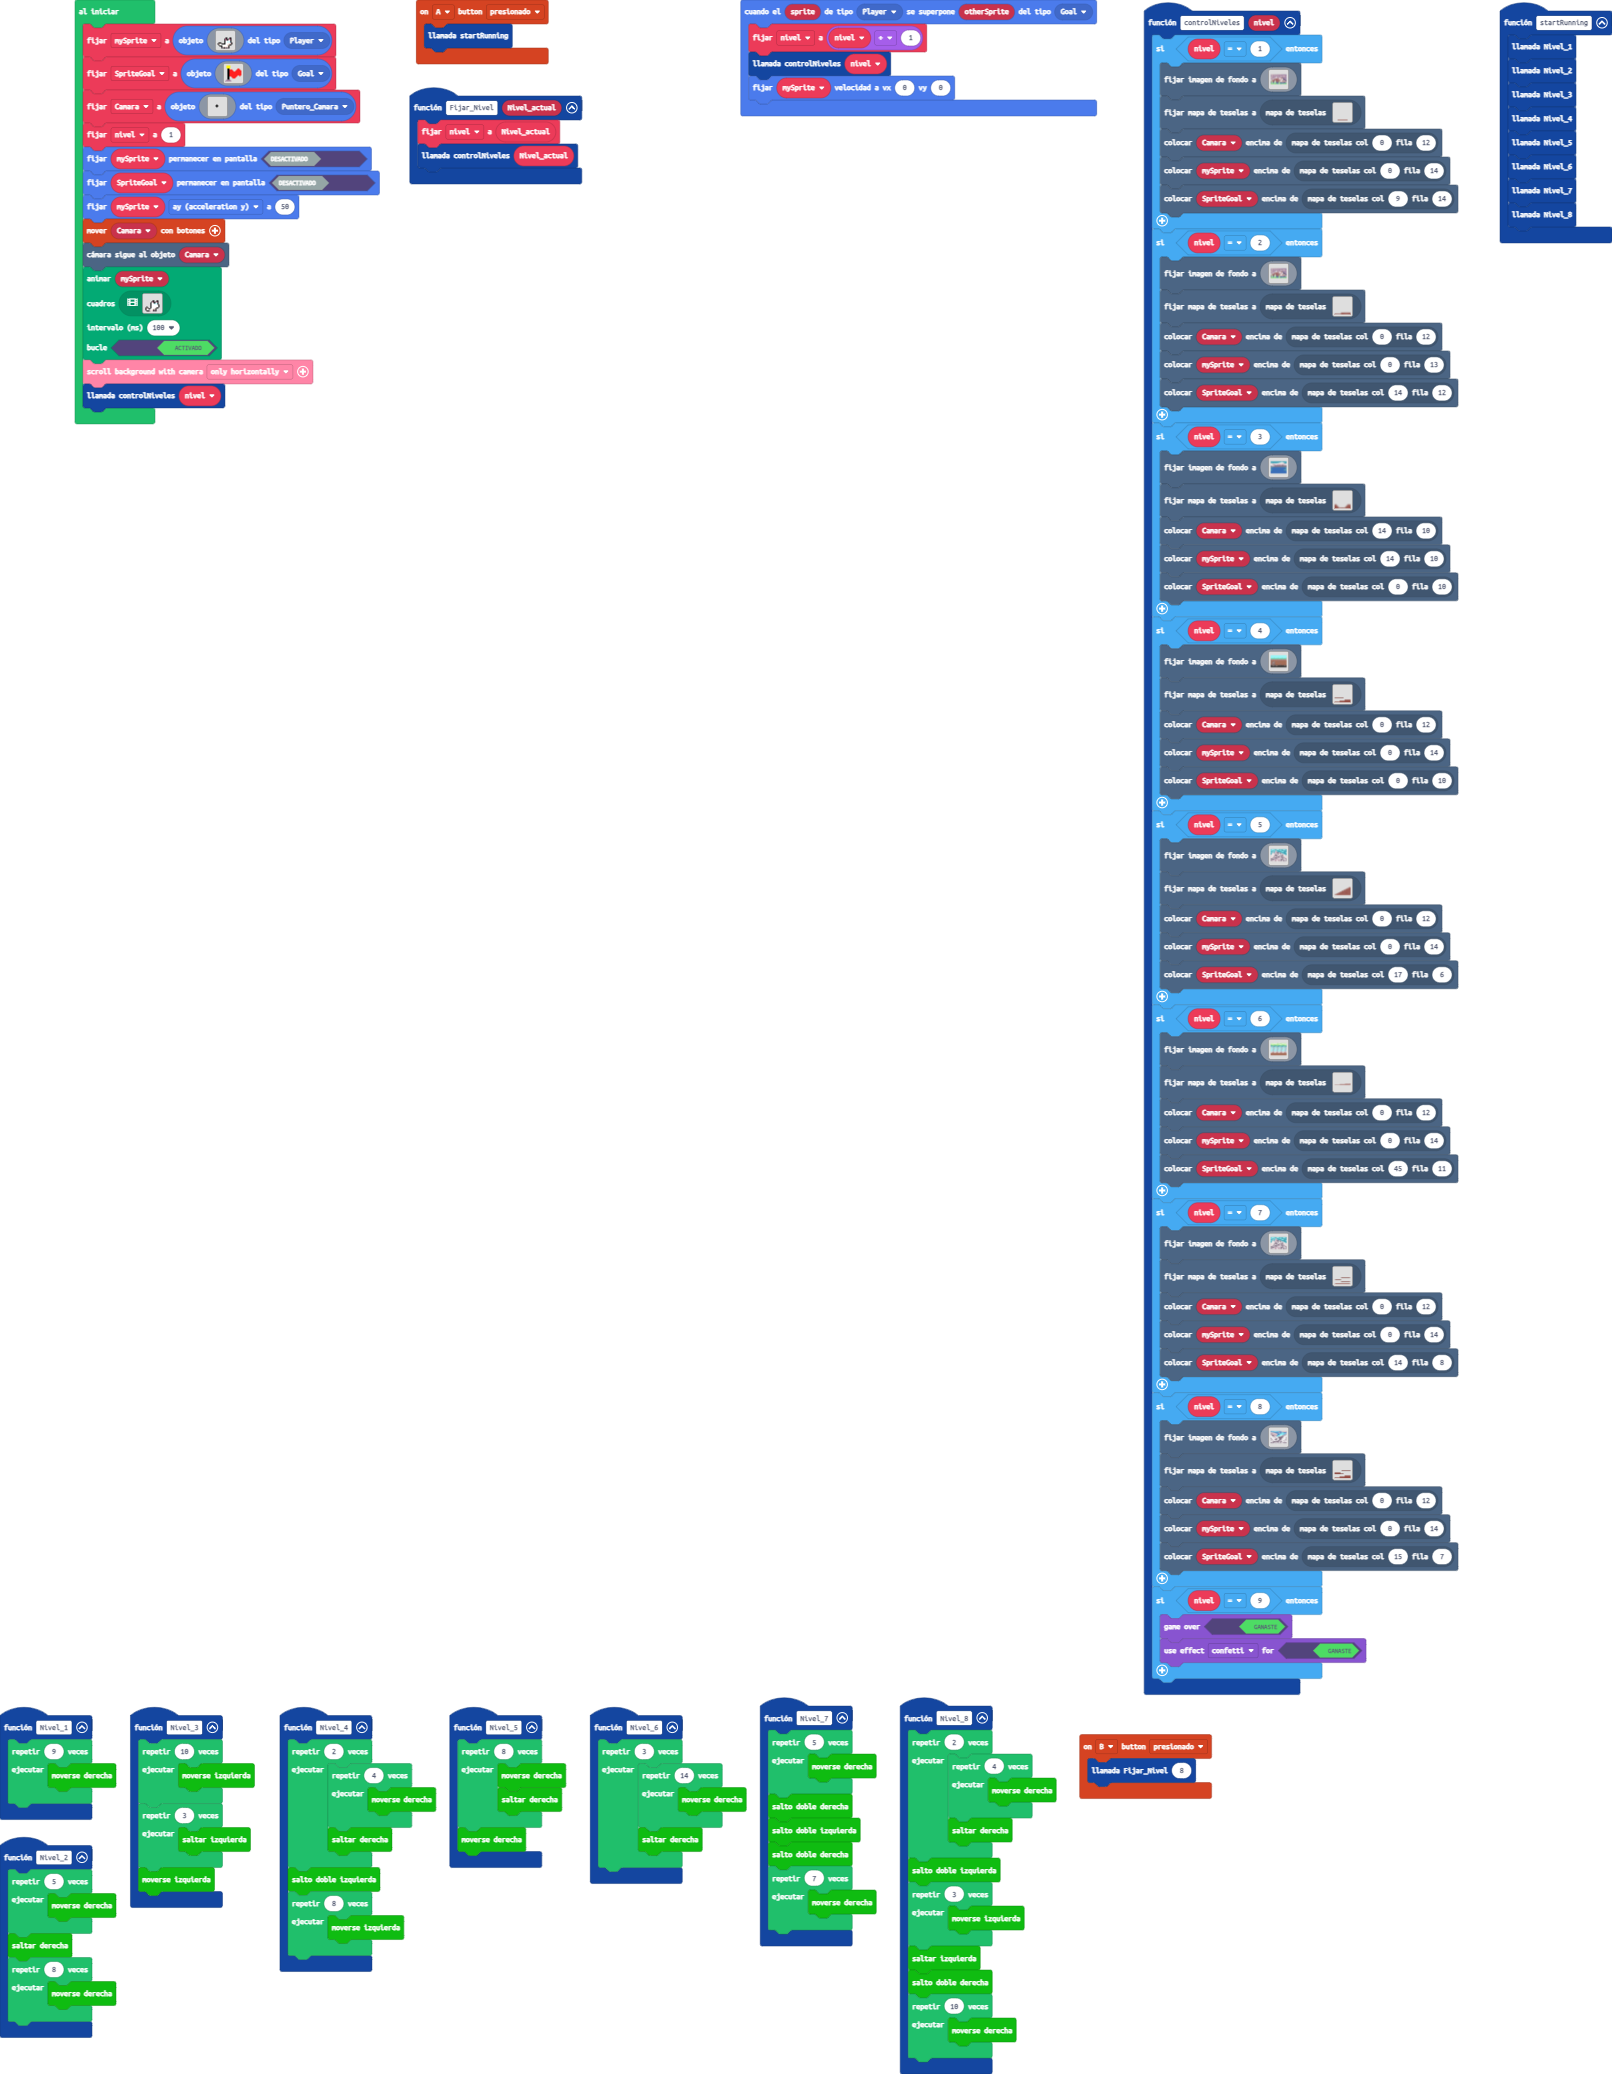
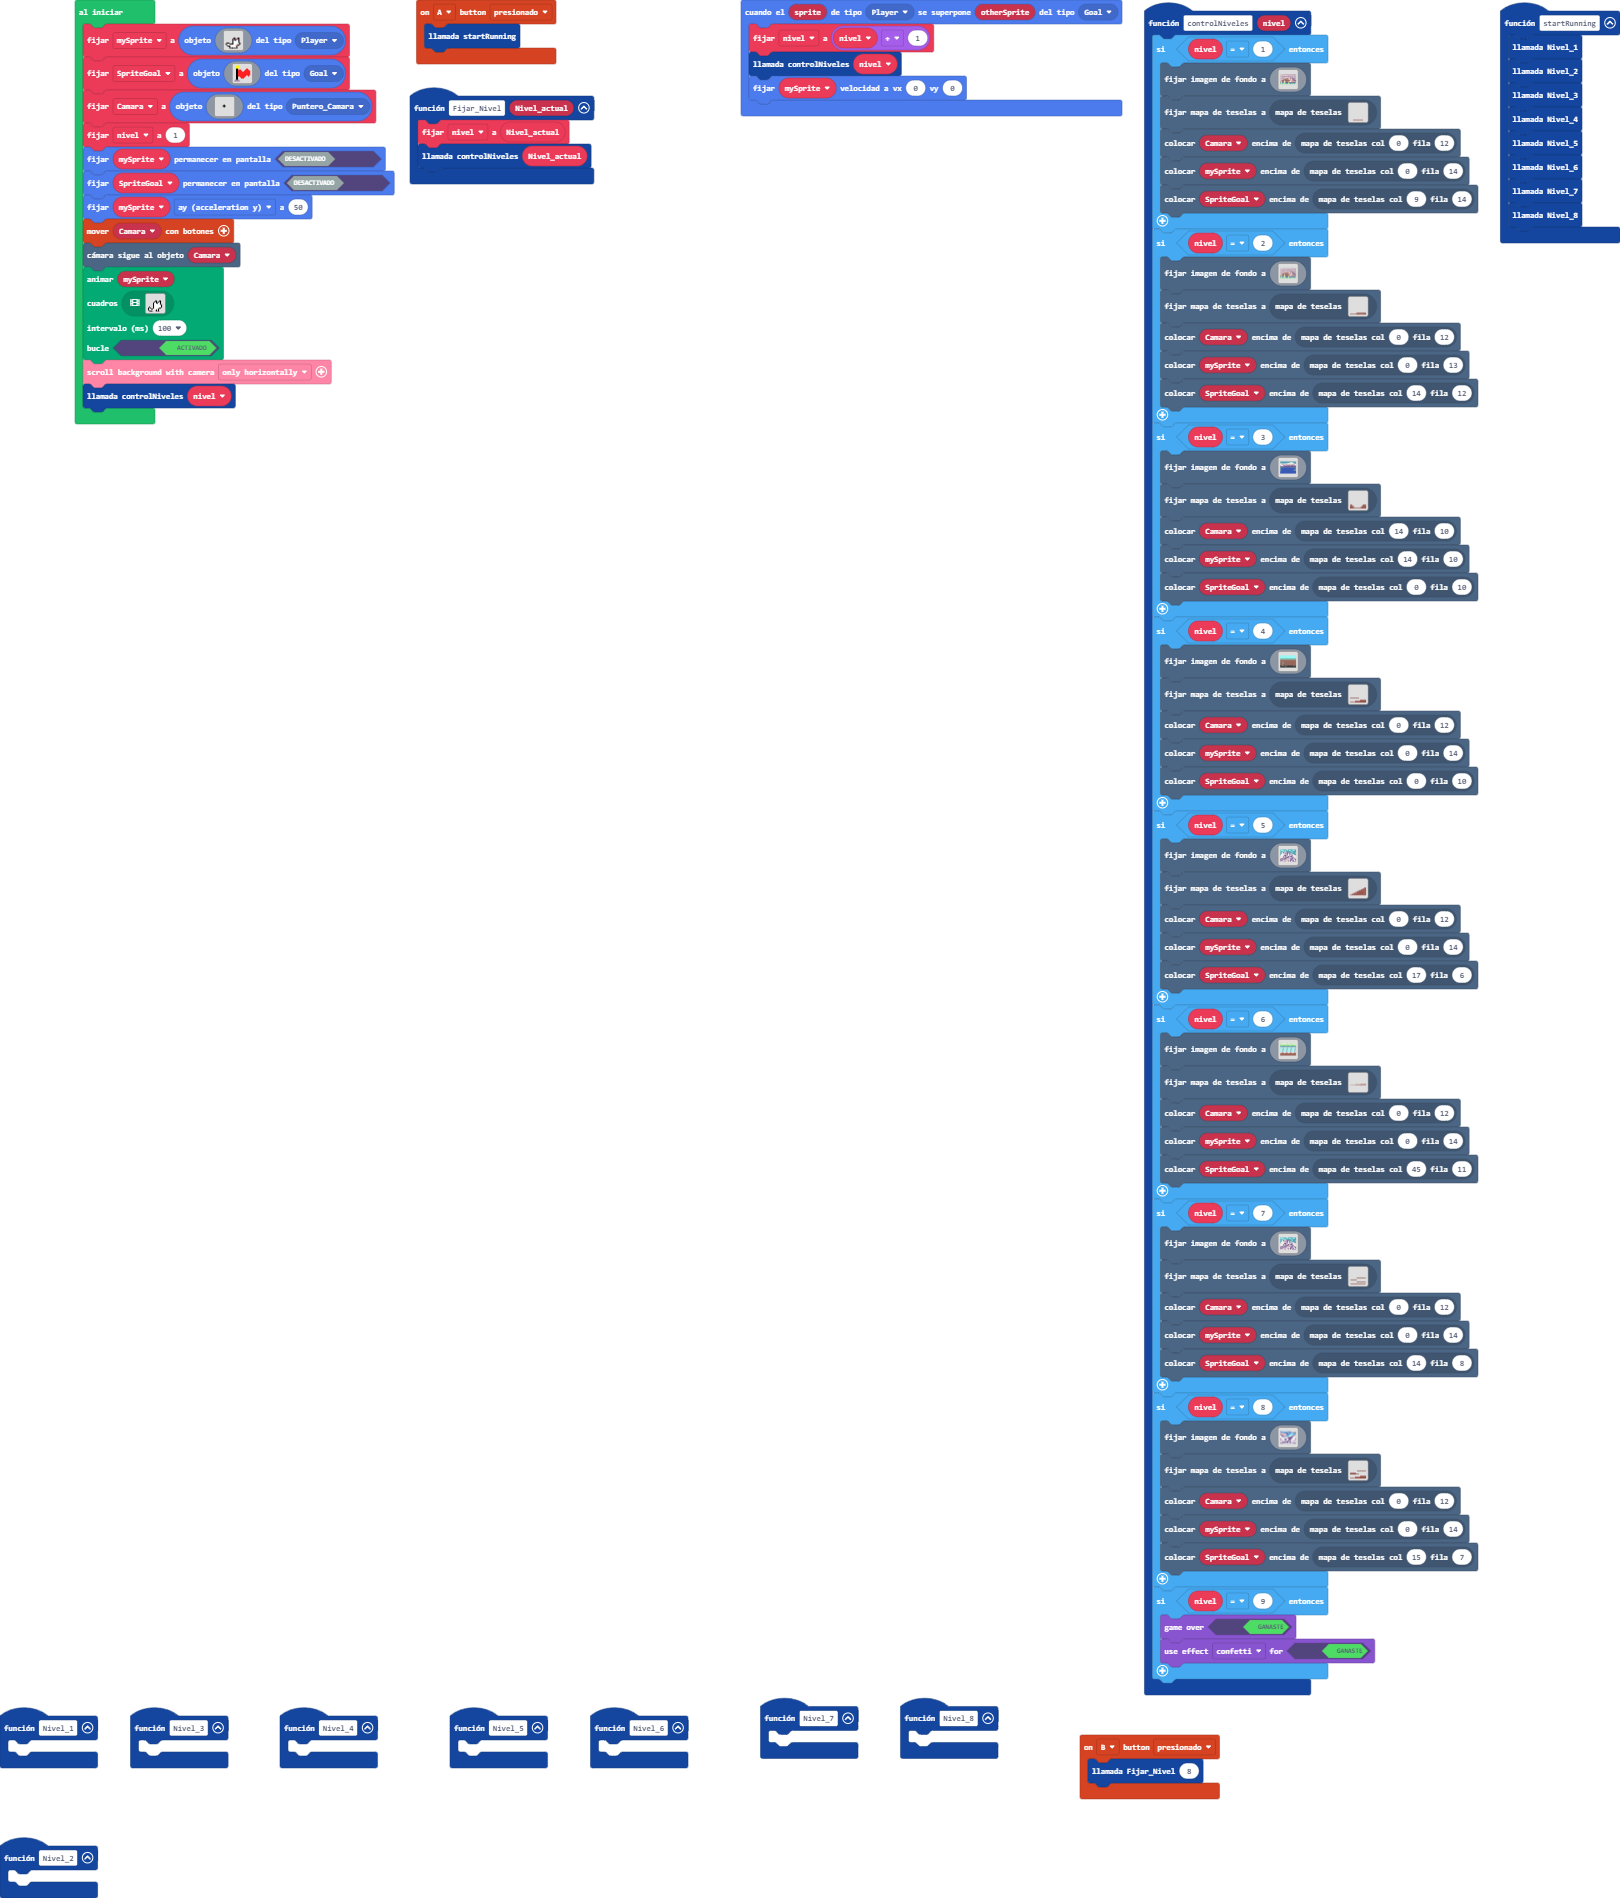
Eliminadas las soluciones a los niveles

Changed region(s): [[0.0, 0.0, 1.0, 1.0], [0.031, 0.0, 0.3722, 0.2487]]

diff --git a/main.ts b/main.ts
@@ -9,41 +9,16 @@ namespace SpriteKind {
     export const Muerte = SpriteKind.create()
 }
 function Nivel_3 () {
-    for (let index = 0; index < 10; index++) {
-        custom.moverseIzquierda()
-    }
-    for (let index = 0; index < 3; index++) {
-        custom.saltarIzquierda()
-    }
-    custom.moverseIzquierda()
+	
 }
 function Nivel_7 () {
-    for (let index = 0; index < 5; index++) {
-        custom.moverseDerecha()
-    }
-    custom.saltoDobleDerecha()
-    custom.saltoDobleIzquierda()
-    custom.saltoDobleDerecha()
-    for (let index = 0; index < 7; index++) {
-        custom.moverseDerecha()
-    }
+	
 }
 function Nivel_1 () {
-    for (let index = 0; index < 9; index++) {
-        custom.moverseDerecha()
-    }
+	
 }
 function Nivel_4 () {
-    for (let index = 0; index < 2; index++) {
-        for (let index = 0; index < 4; index++) {
-            custom.moverseDerecha()
-        }
-        custom.saltarDerecha()
-    }
-    custom.saltoDobleIzquierda()
-    for (let index = 0; index < 8; index++) {
-        custom.moverseIzquierda()
-    }
+	
 }
 controller.A.onEvent(ControllerButtonEvent.Pressed, function () {
     startRunning()
@@ -56,21 +31,7 @@ function Fijar_Nivel (Nivel_actual: number) {
     controlNiveles(Nivel_actual)
 }
 function Nivel_8 () {
-    for (let index = 0; index < 2; index++) {
-        for (let index = 0; index < 4; index++) {
-            custom.moverseDerecha()
-        }
-        custom.saltarDerecha()
-    }
-    custom.saltoDobleIzquierda()
-    for (let index = 0; index < 3; index++) {
-        custom.moverseIzquierda()
-    }
-    custom.saltarIzquierda()
-    custom.saltoDobleDerecha()
-    for (let index = 0; index < 10; index++) {
-        custom.moverseDerecha()
-    }
+	
 }
 function controlNiveles (nivel: number) {
     if (nivel == 1) {
@@ -740,20 +701,10 @@ function controlNiveles (nivel: number) {
     }
 }
 function Nivel_5 () {
-    for (let index = 0; index < 8; index++) {
-        custom.moverseDerecha()
-        custom.saltarDerecha()
-    }
-    custom.moverseDerecha()
+	
 }
 function Nivel_2 () {
-    for (let index = 0; index < 5; index++) {
-        custom.moverseDerecha()
-    }
-    custom.saltarDerecha()
-    for (let index = 0; index < 8; index++) {
-        custom.moverseDerecha()
-    }
+	
 }
 sprites.onOverlap(SpriteKind.Player, SpriteKind.Goal, function (sprite, otherSprite) {
     nivel = nivel + 1
@@ -761,12 +712,7 @@ sprites.onOverlap(SpriteKind.Player, SpriteKind.Goal, function (sprite, otherSpr
     mySprite.setVelocity(0, 0)
 })
 function Nivel_6 () {
-    for (let index = 0; index < 3; index++) {
-        for (let index = 0; index < 14; index++) {
-            custom.moverseDerecha()
-        }
-        custom.saltarDerecha()
-    }
+	
 }
 function startRunning () {
     Nivel_1()
